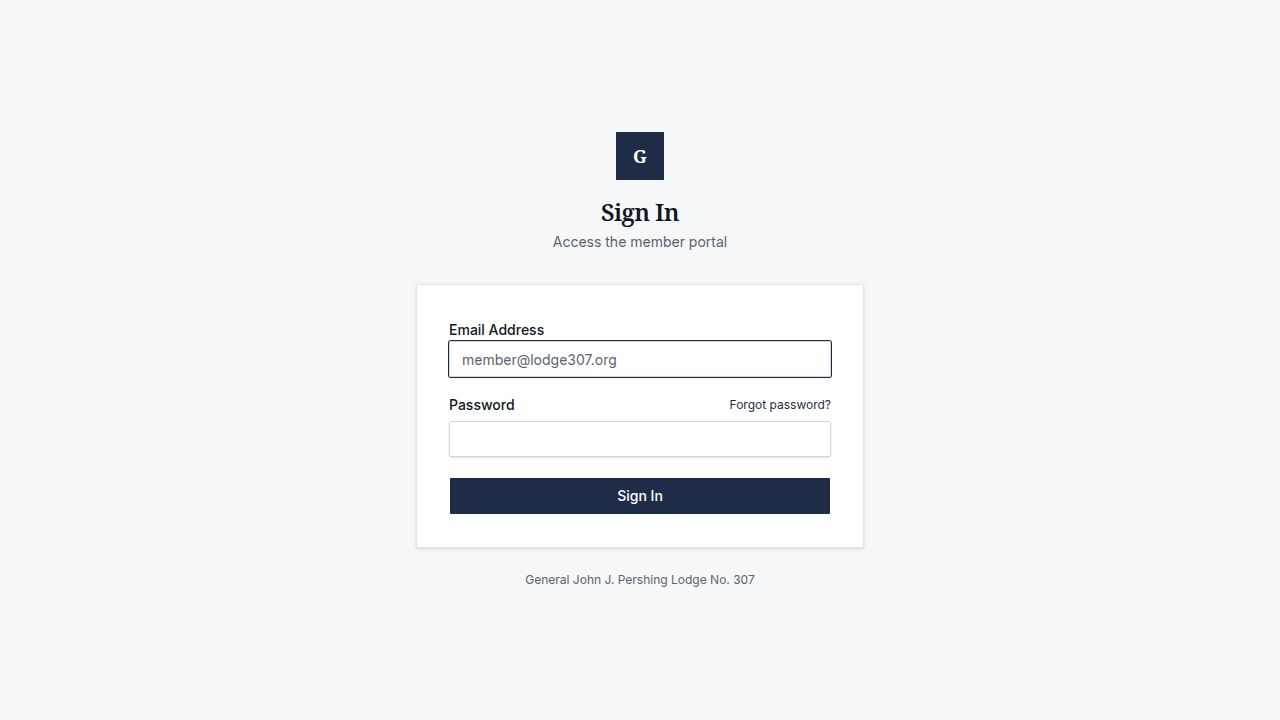
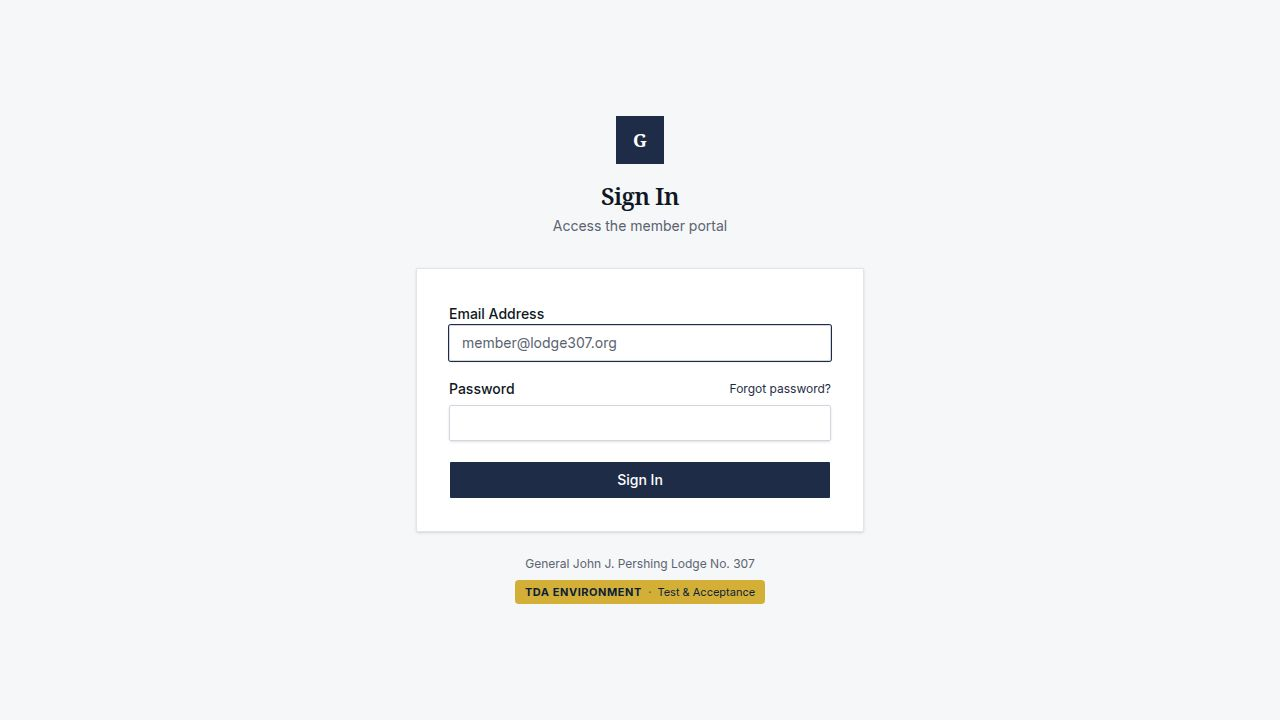
feat: UI-ENVIRONMENT-001 — TDA/PRD environment identification
Adds a configurable environment banner driven by two Vite env vars:
  VITE_ENV_NAME  — short code: TDA, PRD, DEV, STG, UAT, QA, …
  VITE_ENV_LABEL — optional override label (auto-derived if absent)

When VITE_ENV_NAME is absent or "PRD", nothing is rendered anywhere.
Any other value shows the banner in all three locations.

New files:
  artifacts/portal/src/vite-env.d.ts
    TypeScript declarations for ImportMetaEnv (VITE_ENV_NAME, VITE_ENV_LABEL)

  artifacts/portal/src/components/ui/env-banner.tsx
    EnvBannerSidebar  — gold pill block inside sidebar header
    EnvBannerAuth     — gold badge below "General John J. Pershing Lodge No. 307"
    EnvBannerMobilePill — compact gold pill in mobile header row
    Colors: Masonic Gold (#D4AF37) bg, Midnight Blue (#0B1F3A) text
    Built-in label map: TDA→Test & Acceptance, DEV→Development,
      UAT→User Acceptance Testing, STG→Staging, QA→Quality Assurance

Modified:
  artifacts/portal/src/components/layout/auth-layout.tsx
    Wraps footer text in a div, adds <EnvBannerAuth /> below lodge name

  artifacts/portal/src/components/layout/app-layout.tsx
    Adds <EnvBannerSidebar /> inside sidebar header block
    Adds <EnvBannerMobilePill /> in mobile header row (ml-auto, right-aligned)

Env vars set:
  development: VITE_ENV_NAME=TDA
  production:  VITE_ENV_NAME=PRD

Portal typecheck: exit 0

diff --git a/artifacts/portal/src/components/ui/env-banner.tsx b/artifacts/portal/src/components/ui/env-banner.tsx
@@ -1,0 +1,75 @@
+const ENV_NAME = (import.meta.env.VITE_ENV_NAME ?? "").toUpperCase().trim();
+const ENV_LABEL_OVERRIDE = (import.meta.env.VITE_ENV_LABEL ?? "").trim();
+
+const MIDNIGHT_BLUE = "#0B1F3A";
+const MASONIC_GOLD = "#D4AF37";
+
+const DEFAULT_LABELS: Record<string, string> = {
+  TDA: "Test & Acceptance",
+  DEV: "Development",
+  UAT: "User Acceptance Testing",
+  STG: "Staging",
+  QA: "Quality Assurance",
+};
+
+function deriveLabel(name: string): string {
+  return ENV_LABEL_OVERRIDE || DEFAULT_LABELS[name] || name;
+}
+
+export function EnvBannerSidebar() {
+  if (!ENV_NAME || ENV_NAME === "PRD") return null;
+  const label = deriveLabel(ENV_NAME);
+  return (
+    <div
+      className="mx-3 mt-2.5 rounded-sm px-2.5 py-1.5 text-center"
+      style={{ backgroundColor: MASONIC_GOLD }}
+      data-testid="env-banner-sidebar"
+      aria-label={`${ENV_NAME} environment — ${label}`}
+    >
+      <p
+        className="text-[10px] font-bold tracking-widest uppercase leading-tight"
+        style={{ color: MIDNIGHT_BLUE }}
+      >
+        {ENV_NAME} Environment
+      </p>
+      <p
+        className="text-[9px] leading-tight mt-0.5"
+        style={{ color: MIDNIGHT_BLUE, opacity: 0.75 }}
+      >
+        {label}
+      </p>
+    </div>
+  );
+}
+
+export function EnvBannerAuth() {
+  if (!ENV_NAME || ENV_NAME === "PRD") return null;
+  const label = deriveLabel(ENV_NAME);
+  return (
+    <div className="mt-2 flex justify-center" data-testid="env-banner-auth">
+      <span
+        className="inline-flex items-center gap-1.5 rounded px-2.5 py-1 text-[11px] font-semibold"
+        style={{ backgroundColor: MASONIC_GOLD, color: MIDNIGHT_BLUE }}
+        aria-label={`${ENV_NAME} environment — ${label}`}
+      >
+        <span className="font-bold tracking-wider uppercase">{ENV_NAME} Environment</span>
+        <span style={{ opacity: 0.5 }}>·</span>
+        <span className="font-normal">{label}</span>
+      </span>
+    </div>
+  );
+}
+
+export function EnvBannerMobilePill() {
+  if (!ENV_NAME || ENV_NAME === "PRD") return null;
+  return (
+    <span
+      className="ml-auto shrink-0 rounded px-1.5 py-0.5 text-[9px] font-bold tracking-wider uppercase leading-tight"
+      style={{ backgroundColor: MASONIC_GOLD, color: MIDNIGHT_BLUE }}
+      data-testid="env-banner-mobile"
+      aria-label={`${ENV_NAME} environment`}
+    >
+      {ENV_NAME}
+    </span>
+  );
+}

diff --git a/artifacts/portal/src/components/layout/auth-layout.tsx b/artifacts/portal/src/components/layout/auth-layout.tsx
@@ -1,5 +1,6 @@
 import { ReactNode } from "react";
 import { cn } from "@/lib/utils";
+import { EnvBannerAuth } from "@/components/ui/env-banner";
 
 interface AuthLayoutProps {
   children: ReactNode;
@@ -25,9 +26,12 @@ export function AuthLayout({ children, title, subtitle }: AuthLayoutProps) {
         )}>
           {children}
         </div>
-        <p className="mt-6 text-center text-xs text-muted-foreground">
-          General John J. Pershing Lodge No. 307
-        </p>
+        <div className="mt-6 text-center">
+          <p className="text-xs text-muted-foreground">
+            General John J. Pershing Lodge No. 307
+          </p>
+          <EnvBannerAuth />
+        </div>
       </div>
     </div>
   );

diff --git a/artifacts/portal/src/vite-env.d.ts b/artifacts/portal/src/vite-env.d.ts
@@ -1,0 +1,10 @@
+/// <reference types="vite/client" />
+
+interface ImportMetaEnv {
+  readonly VITE_ENV_NAME?: string;
+  readonly VITE_ENV_LABEL?: string;
+}
+
+interface ImportMeta {
+  readonly env: ImportMetaEnv;
+}

diff --git a/artifacts/portal/src/components/layout/app-layout.tsx b/artifacts/portal/src/components/layout/app-layout.tsx
@@ -12,6 +12,7 @@ import {
 } from "lucide-react";
 import { Button } from "@/components/ui/button";
 import { Separator } from "@/components/ui/separator";
+import { EnvBannerSidebar, EnvBannerMobilePill } from "@/components/ui/env-banner";
 
 interface NavItem {
   href: string;
@@ -73,7 +74,7 @@ export function AppLayout({ children }: AppLayoutProps) {
 
   const SidebarContent = ({ onNav }: { onNav?: () => void }) => (
     <>
-      <div className="px-5 py-5 border-b border-border">
+      <div className="px-5 pt-5 pb-3 border-b border-border">
         <div className="flex items-center gap-2.5">
           <div className="flex items-center justify-center w-8 h-8 rounded-sm bg-primary shrink-0">
             <span className="text-primary-foreground font-serif font-bold text-sm">G</span>
@@ -83,6 +84,7 @@ export function AppLayout({ children }: AppLayoutProps) {
             <p className="text-[10px] text-muted-foreground truncate leading-tight">Member Portal</p>
           </div>
         </div>
+        <EnvBannerSidebar />
       </div>
 
       <nav className="flex-1 px-3 py-4 space-y-0.5 overflow-y-auto">
@@ -194,6 +196,7 @@ export function AppLayout({ children }: AppLayoutProps) {
             </div>
             <span className="text-sm font-semibold text-foreground">Pershing No. 307</span>
           </div>
+          <EnvBannerMobilePill />
         </header>
 
         <main className="flex-1">